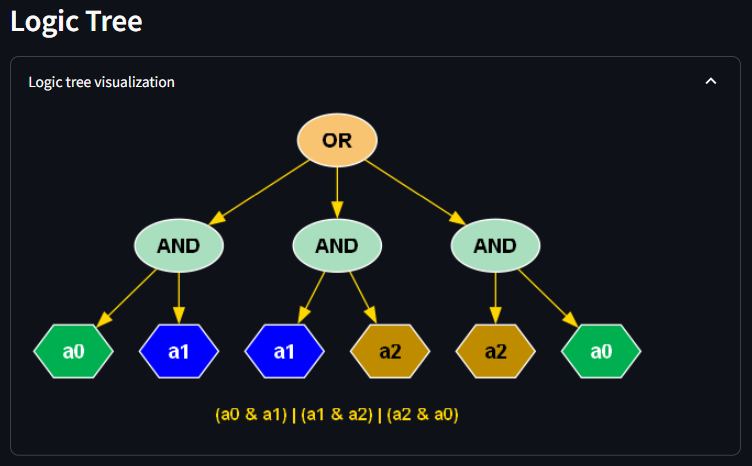
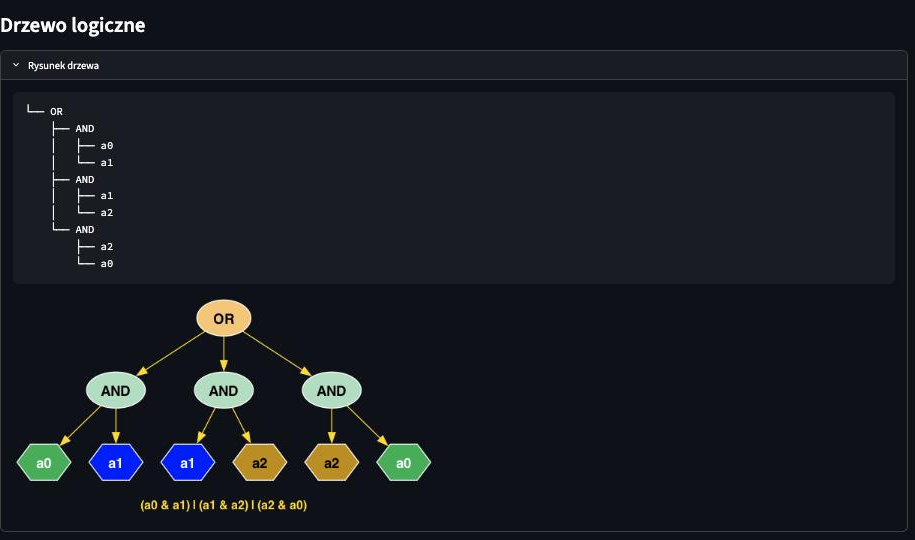
fix(gui): domknij tłumaczenie interfejsu i usuń duplikat panelu OTA
Funkcja OTA rysowała się raz na silnik, bo każdy dostawał ten sam wspólny
kontener — a liczą tę samą funkcję. Panel dostaje teraz tylko pierwszy wynik.

Etykiety, które zostawały po angielsku niezależnie od wybranego języka:
podpisy wykresu czasów oraz nagłówki tabel wyników i mapowania zmiennych.
`results_frame` i `variable_mapping_frame` przyjmują je jawnym parametrem,
bo tylko wywołujący wie, w jakim języku mówi do użytkownika (#03) — GUI
podaje je z i18n, CLI swoje angielskie.

Testy: `test_ota_function_is_rendered_once` pilnuje pojedynczego panelu,
a regex w `test_i18n.py` wyłapuje też `title=`/`xaxis_title=`/`yaxis_title=`.

Zrzuty w README wygenerowane od nowa z działającej aplikacji po polsku.

diff --git a/src/blastapp/presentation/tables.py b/src/blastapp/presentation/tables.py
@@ -8,14 +8,15 @@ import pandas as pd
 
 from blastapp.domain.solving.result import SolverResult
 
-RESULT_COLUMN = "Result"
 
-
-def results_frame(result: SolverResult) -> pd.DataFrame:
+def results_frame(result: SolverResult, result_column: str) -> pd.DataFrame:
     """Wszystkie wartościowania z wynikiem formuły, po jednym wierszu na wartościowanie.
 
     Kolumny idą od zmiennej o najwyższej pozycji bitowej do najniższej — tak, jak czyta się
     liczbę binarną.
+
+    :param result_column: Nagłówek kolumny z wynikiem; podaje go wywołujący, bo tylko on wie,
+        w jakim języku mówi do użytkownika.
     """
     positions = sorted(result.variables.positions.items(), key=lambda item: -item[1])
     table = result.truth_table
@@ -23,19 +24,18 @@ def results_frame(result: SolverResult) -> pd.DataFrame:
     rows = [
         {
             **{name: bool(assignment >> position & 1) for name, position in positions},
-            RESULT_COLUMN: table.value_at(assignment),
+            result_column: table.value_at(assignment),
         }
         for assignment in range(table.size)
     ]
-    return pd.DataFrame(rows, columns=[name for name, _ in positions] + [RESULT_COLUMN])
+    return pd.DataFrame(rows, columns=[name for name, _ in positions] + [result_column])
 
 
-def variable_mapping_frame(result: SolverResult) -> pd.DataFrame:
+def variable_mapping_frame(
+    result: SolverResult, binary_column: str, propositional_column: str
+) -> pd.DataFrame:
     """Zestawienie zmiennej algebry binarnej z nazwą użytą w formule."""
     rows = sorted(result.variables.positions.items(), key=lambda item: item[1])
     return pd.DataFrame(
-        [
-            {"Binary Algebra Variable": f"a{position}", "Propositional Variable": name}
-            for name, position in rows
-        ]
+        [{binary_column: f"a{position}", propositional_column: name} for name, position in rows]
     )

diff --git a/src/blastapp/presentation/web/solver_section.py b/src/blastapp/presentation/web/solver_section.py
@@ -8,7 +8,7 @@ from streamlit.delta_generator import DeltaGenerator
 
 from blastapp.domain.solving.result import SolverResult
 from blastapp.domain.solving.statistics import SolutionStatistics
-from blastapp.presentation.tables import RESULT_COLUMN, results_frame
+from blastapp.presentation.tables import results_frame
 from blastapp.presentation.theme import STATISTICS_BACKGROUND
 from blastapp.presentation.web.ota_section import render_ota_details
 
@@ -40,15 +40,16 @@ def render_solver_section(
 
 def render_result_tables(result: SolverResult, texts: dict[str, str]) -> None:
     """Rysuje wartościowania prawdziwe i fałszywe obok siebie."""
-    frame = results_frame(result)
+    result_column = texts["column_result"]
+    frame = results_frame(result, result_column)
     true_column, false_column = st.columns(2)
 
     with true_column:
         st.subheader(texts["true_results"])
-        st.dataframe(frame[frame[RESULT_COLUMN]], width="stretch")
+        st.dataframe(frame[frame[result_column]], width="stretch")
     with false_column:
         st.subheader(texts["false_results"])
-        st.dataframe(frame[~frame[RESULT_COLUMN]], width="stretch")
+        st.dataframe(frame[~frame[result_column]], width="stretch")
 
 
 def statistics_banner(statistics: SolutionStatistics, texts: dict[str, str]) -> str:

diff --git a/src/blastapp/presentation/web/timing_chart.py b/src/blastapp/presentation/web/timing_chart.py
@@ -7,7 +7,7 @@ from blastapp.domain.solving.result import SolverResult
 from blastapp.presentation.settings import DEFAULT_SETTINGS
 
 
-def render_timing_chart(results: list[SolverResult]) -> None:
+def render_timing_chart(results: list[SolverResult], texts: dict[str, str]) -> None:
     """Rysuje słupki z czasem każdego silnika."""
     if not results:
         return
@@ -19,9 +19,9 @@ def render_timing_chart(results: list[SolverResult]) -> None:
         data=[go.Bar(x=names, y=milliseconds, text=[f"{value:.4f} ms" for value in milliseconds])]
     )
     figure.update_layout(
-        title="Execution Times by Solver",
-        xaxis_title="Solver",
-        yaxis_title="Execution Time (ms)",
+        title=texts["chart_title"],
+        xaxis_title=texts["chart_engine"],
+        yaxis_title=texts["chart_time"],
         template=DEFAULT_SETTINGS.plotly_template,
     )
     st.plotly_chart(figure)

diff --git a/tests/presentation/test_app_smoke.py b/tests/presentation/test_app_smoke.py
@@ -82,3 +82,10 @@ def test_broken_expression_shows_an_error_not_a_crash(app: AppTest) -> None:
     solved = solve(app, "(a0 & a1")
     assert not solved.exception
     assert solved.error, "błędna formuła ma dać komunikat"
+
+
+def test_ota_function_is_rendered_once(app: AppTest) -> None:
+    """Panel funkcji OTA jest wspólny dla silników, a każdy liczy tę samą funkcję."""
+    solved = solve(app, "(a0 & a1) | (a1 & a2) | (a2 & a0)")
+    assert not solved.exception
+    assert len(solved.latex) == 1, f"równanie OTA powtórzone {len(solved.latex)} razy"

diff --git a/src/blastapp/presentation/web/app.py b/src/blastapp/presentation/web/app.py
@@ -75,11 +75,12 @@ def _solve_and_render(expression: str, selection: SidebarSelection, texts: dict[
             continue
 
         results.append(result)
-        render_solver_section(result, texts, ota_container)
+        # Funkcję OTA rysujemy raz: każdy silnik liczy tę samą, a panel jest wspólny.
+        render_solver_section(result, texts, ota_container if len(results) == 1 else None)
 
     if results:
         _section(texts["time_comparison"])
-        render_timing_chart(results)
+        render_timing_chart(results, texts)
 
 
 def _solve(

diff --git a/src/blastapp/presentation/i18n/en.py b/src/blastapp/presentation/i18n/en.py
@@ -32,4 +32,10 @@ TEXTS: dict[str, str] = {
     "solution_details": "Solution details",
     "time_comparison": "Execution time comparison",
     "variable_mapping": "Mapping of propositional variables to binary algebra variables:",
+    "chart_title": "Execution times by engine",
+    "chart_engine": "Engine",
+    "chart_time": "Execution time (ms)",
+    "column_result": "Result",
+    "column_binary_variable": "Binary algebra variable",
+    "column_propositional_variable": "Propositional variable",
 }

diff --git a/src/blastapp/presentation/i18n/pl.py b/src/blastapp/presentation/i18n/pl.py
@@ -32,4 +32,10 @@ TEXTS: dict[str, str] = {
     "solution_details": "Szczegóły rozwiązania",
     "time_comparison": "Porównanie czasów",
     "variable_mapping": "Przypisanie zmiennych zdaniowych do zmiennych algebry binarnej:",
+    "chart_title": "Czasy wykonania silników",
+    "chart_engine": "Silnik",
+    "chart_time": "Czas wykonania (ms)",
+    "column_result": "Wynik",
+    "column_binary_variable": "Zmienna algebry binarnej",
+    "column_propositional_variable": "Zmienna zdaniowa",
 }

diff --git a/solve.py b/solve.py
@@ -72,8 +72,8 @@ def _report(result: SolverResult, engine: SolverEngine) -> None:
     elif statistics.is_contradiction:
         print(f"{BG_RED}{WHITE} C O N T R A D I C T I O N {RESET}")
     else:
-        print(variable_mapping_frame(result))
-        display(results_frame(result))
+        print(variable_mapping_frame(result, "Binary algebra variable", "Propositional variable"))
+        display(results_frame(result, "Result"))
 
 
 def _render_graph(formula: Formula) -> None:

diff --git a/src/blastapp/presentation/web/ota_section.py b/src/blastapp/presentation/web/ota_section.py
@@ -26,7 +26,9 @@ def render_ota_details(result: SolverResult, texts: dict[str, str]) -> None:
         return
 
     st.write(texts["variable_mapping"])
-    mapping = variable_mapping_frame(result).T
+    mapping = variable_mapping_frame(
+        result, texts["column_binary_variable"], texts["column_propositional_variable"]
+    ).T
     mapping.columns = pd.RangeIndex(mapping.shape[1])
     st.dataframe(mapping.style.apply(_highlight_renamed, axis=0))
 
